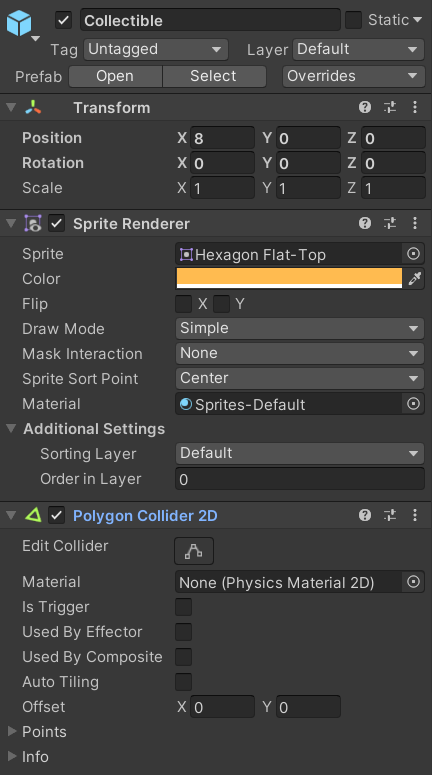
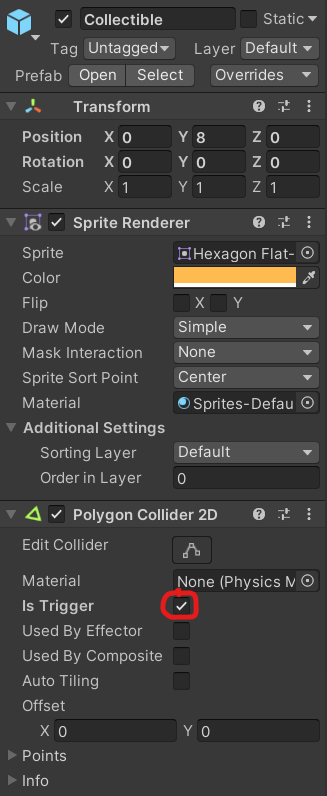
Top Down trigger instead of collider

diff --git a/docs/unity-and-cs/top-down-game/04.md b/docs/unity-and-cs/top-down-game/04.md
@@ -17,6 +17,8 @@ Creating A Hexagon:
 
 ![Creating a hexagon](/assets/images/unity/topdown/04/polygon-collider.png)
 
+Notice that we've selected "Is Trigger" in the Polygon Collider 2D. A **trigger** allows you to detect collisions with objects while also being able to pass through them. This ensures that there is no unintended knockback from collecting.
+
 ### Asset Organization
 
 In the Assets window, go ahead and move all of your Sprites into the Materials folder.
@@ -39,7 +41,8 @@ public class Collectible : MonoBehaviour
     // How much this particular collectible is worth (score)
     public int scoreAmount;
 
-    private void OnCollisionEnter2D(Collision2D other)
+    // OnTriggerEnter2D instead of OnCollider2D because we checked "Is Trigger"
+    private void OnTriggerEnter2D(Collider2D other)
     {
         if (other.gameObject.tag == "Player")
         {
